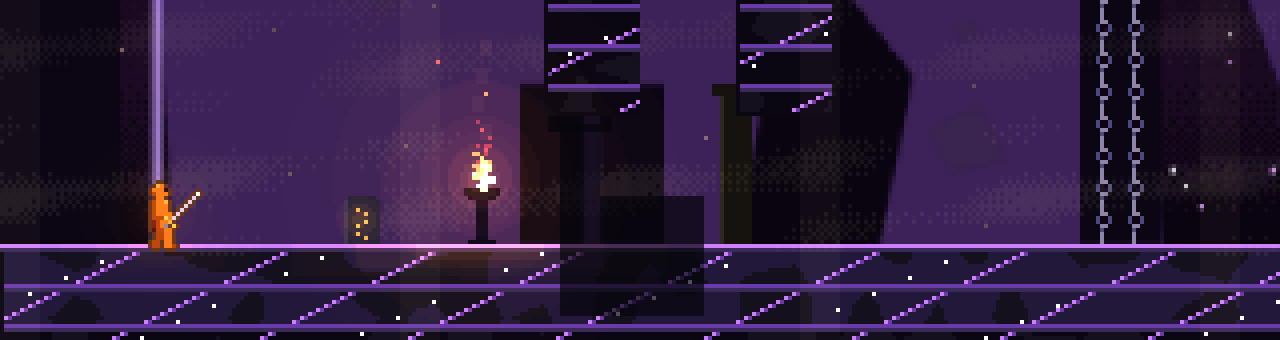
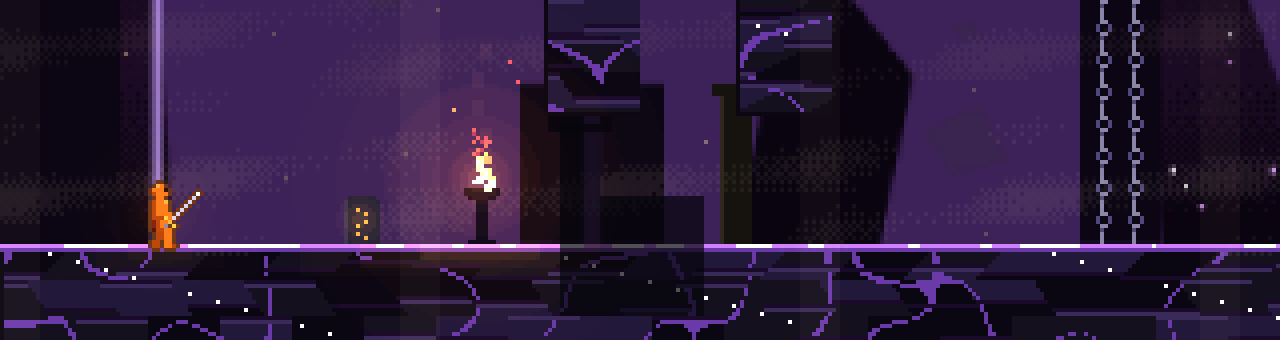
Tile polish: organic cloister roots, irregular obsidian shards for the throne; regenerated tile after shots + compare grid

diff --git a/tiles.js b/tiles.js
@@ -45,11 +45,16 @@ const TILEMAT=(()=>{
  // CLOISTER — broken mosaic, moss and roots
  M.cloister={pal:['#3a2a1a','#2a1c10','#4a7a2a','#7ab040','#c04a3a','#3a6ac0','#e0c050','#e8e0c8'],
   solid(o){const{X,Y,dy}=o;if(dy<4){if(vn(X,0,8,3)>.6)return dy<2?3:2;const tx=X>>2,miss=hs(tx,1,4)<.15;if(miss)return 1;if((X&3)===3||dy===3)return 1;return[4,5,6,7][Math.floor(hs(tx,0,5)*4)]}
-   const r=Math.abs(Math.sin(Y*.15+X*.02+vn(X,0,30,6)*6)*20-(X%40-20));if(r<1.2)return 0===((X+Y)&1)?3:2;const n=vn(X,Y,6,7);return n>.55?0:1},
+   for(let k=-1;k<=1;k++){const col=Math.floor(X/28)+k,len=8+hs(col,3,12)*26;if(dy>len||hs(col,4,13)<.35)continue;const x0=col*28+hs(col,5,14)*20,rx=x0+Math.sin(dy*.22+col)*3+dy*(hs(col,6,15)-.5)*.9;if(Math.abs(X-rx)<(dy<len*.6?1.4:.8))return hs(X,Y,16)<.3?3:2;
+    const bx=rx+(dy-len*.4)*(hs(col,7,17)<.5?1:-1)*.8;if(dy>len*.4&&dy<len*.8&&Math.abs(X-bx)<.7)return 2}
+   const n=vn(X,Y,6,7)*.7+vn(X,Y,2,8)*.3;return n>.58?0:1},
   back(X,Y){return vn(X,Y,10,1)>.6?2:1},one(X,Y,u,v){return v===0?3:v<3?2:v<5?0:v===5?1:0}};
  // THRONE — black obsidian steps and void-glass
  M.throne={pal:['#0a0612','#14101e','#22183a','#6a3aa8','#d080ff','#1a0a2a','#3a2a5a','#ffffff'],
-  solid(o){const{X,Y,dy}=o;const step=(dy%10);if(step===0)return dy===0?4:3;if(step===1)return 6;const d=(X+dy*2)%37;if(d<2)return d?3:4;if(((X*31+Y*17)%211)===0)return 7;return vn(X,Y,9,4)>.55?1:(dy>20?0:2)},
+  solid(o){const{X,Y,dy}=o;if(dy===0)return vn(X,0,6,9)>.7?7:4;if(dy===1)return 3;
+   // irregular obsidian shards: hashed slanted cells, a glossy streak along each shard's upper edge, rare void cracks
+   const sl=Math.floor(X/18+dy*.35*(hs(Math.floor(dy/9),0,20)-.5)),row=Math.floor((dy+hs(sl,0,21)*6)/9),id=hs(sl,row,22),ey=(dy+hs(sl,0,21)*6)%9;
+   if(ey<1)return 5;if(ey<2&&id>.4)return 6;const cr=Math.abs(vn(X,Y,15,23)-.5);if(cr<.012)return 3;if(((X*31+Y*17)%251)===0)return 7;return id<.33?0:id<.7?1:2},
   back(X,Y){return(X+Y)%29===0?2:5},one(X,Y,u,v){return v===0?4:v<5?2:v===5?3:0}};
  const P={};for(const k in M){const toI=c=>{c=parseInt(c.slice(1),16);return((0xff<<24)|((c&0xff)<<16)|(c&0xff00)|((c>>16)&0xff))>>>0};M[k].c=M[k].pal.map(toI);const lum=c=>{c=parseInt(c.slice(1),16);return(c>>16)*.3+((c>>8)&255)*.59+(c&255)*.11};M[k].dark=M[k].pal.reduce((b,c,i,A)=>lum(c)<lum(A[b])?i:b,0)}
  return M})();

diff --git a/PROGRESS.md b/PROGRESS.md
@@ -294,3 +294,4 @@ Note: core.js, data.js and level.js are untracked files from an earlier, unfinis
 - tiles pass (WIP): tiles.js TILEMAT gives every zone its own ground, wall and ledge material (ramparts weathered stone, cathedral checker marble with gold, cinderdeep basalt with ember veins, belltower packed snow over ice with icicles, forge grates/slag/magma cracks, drowned coffin slabs over bone-strewn wet earth, keep timber over rubble, spire marble over crystal facets with star inlay, cloister broken mosaic/moss/roots, throne obsidian steps with void-glass). Colour only, so collision is unchanged. test/tilesfix.mjs (35 checks, unique hashes per zone). Shots in screenshots/tiles/before|after, compare.png, clips/tiles.mp4. Full suite through milestoneB was green before the pause.
 - Gamepad: gamepad.js polls navigator.getGamepads() every frame (0.2 deadzone) and merges the pad into Stage.readInput. In menus, pad presses are replayed as arrow/Enter/Escape keys. Map: A jump/confirm, B roll/back, X attack, Y heavy, LB parry, RB/LT/RT spells, View flask, Start pause. It shows a connect toast and a 'press any button' hint on the title screen, and each local pad gets its own slot. test/gamepad.mjs has 20 checks. Copy updated on the title screen, the pause screen and in README.md.
 - Gamepad fix: the player now follows every connected pad, merged together. Before, only the first entry in getGamepads() was used, and Chrome often lists an idle duplicate or virtual pad first (XInput+DirectInput, Steam Input). Non-standard Xbox layouts (triggers and d-pad on axes) are handled too. test/gamepad_real.mjs mocks Chrome's behaviour: fresh frozen snapshots, no connect event, {pressed,value,touched}, and a duplicate pad listed first.
+- Tile polish: cloister roots are now organic hashed root strands with branches over mottled earth (no lattice), and throne is irregular slanted obsidian shards with glossy upper edges and faint void cracks (no step grid). After shots and screenshots/tiles/compare.png regenerated. Full suite on cc32289 was green (gamepad, tilesfix, bgfix, textfix, r7fix, G-M, milestoneA-F, r3-r6).
